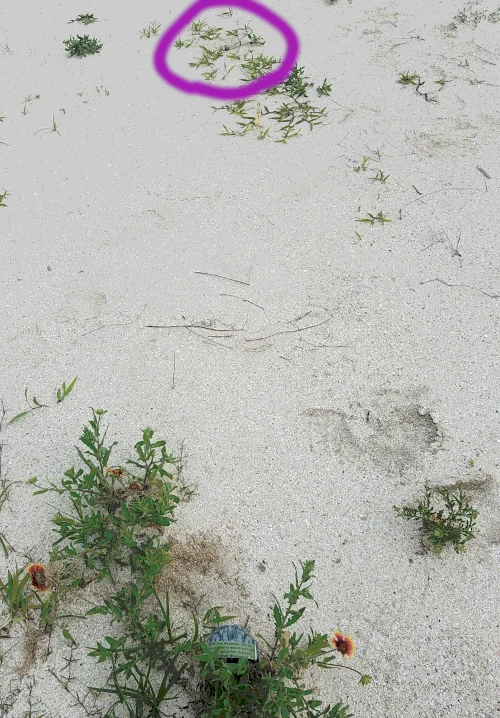
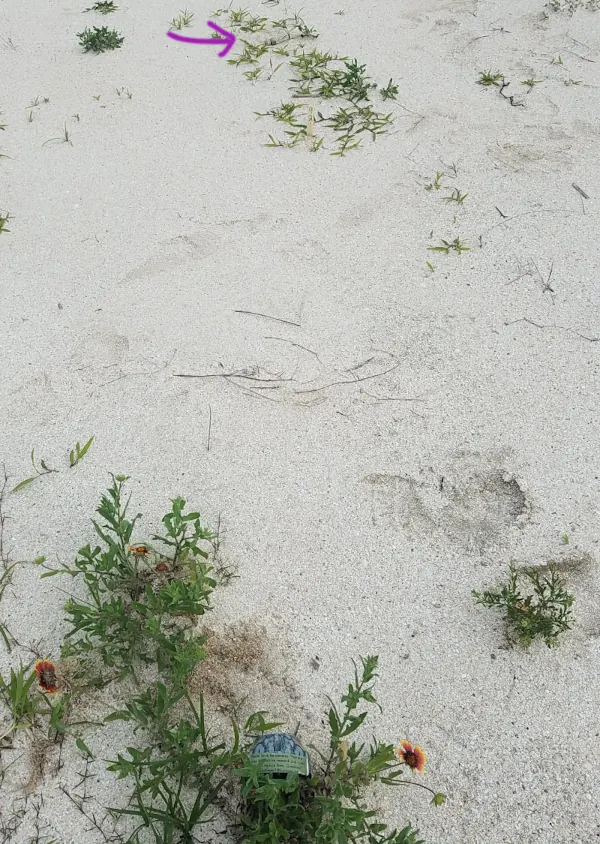
updated nest sim

diff --git a/assets/css/main.scss b/assets/css/main.scss
@@ -280,7 +280,8 @@ figcaption {
   padding: 0.5em;
   font-family: $monospace;
   // font-size: $type-size-5b;
-  background-color: #d7dce0;
+  // background-color: #d7dce0;
+  background-color: #ebeef5;
   color: #02121f;
   font-size: 0.86rem;
   line-height: 1.7;

diff --git a/_portfolio/nest_sim.md b/_portfolio/nest_sim.md
@@ -131,9 +131,20 @@ Sample simulation with only 20 nests (true simulation had 250 or 500).
             [ 4  6  8  11  12  13  15 ]
 
 <!-- <figure style="width: 80%; margin: 0;"> -->
+### Some output:
 <figure class="fig-center">
     <img src="/assets/images/prop_plot3.webp" alt="Plot showing that proportion of nests flooded, hatched, and discovered follow the same trends as parameter values change, regardless of which choice observer makes. Proportion of nests misclassified and marked unknown, however, follow different trends depending on observer choice (as expected).">
     <figcaption> Proportion of nests flooded, hatched, and discovered follow the same trends as parameter values change, regardless of which choice observer makes. Proportion of nests misclassified and marked unknown, however, follow different trends depending on observer choice (as expected).</figcaption>
+</figure>
+
+<!-- <figure class="fig-center"> -->
+<!--     <img src="/assets/images/sf_plot.webp" alt="Plot showing how PSR bias changes with increasing storm activity, for Observer 1 and Observer 2"> -->
+<!--     <figcaption></figcaption> -->
+<!-- </figure> -->
+
+<figure class="fig-center">
+    <img src="/assets/images/dsr_plot.webp" alt="Plot showing the true DSR and estimated DSR from logistic exposure model with different covariates over the course of the season">
+    <figcaption>True DSR value, and estimates from logistic exposure model with different covariates, over the course of the season.</figcaption>
 </figure>
 
 
